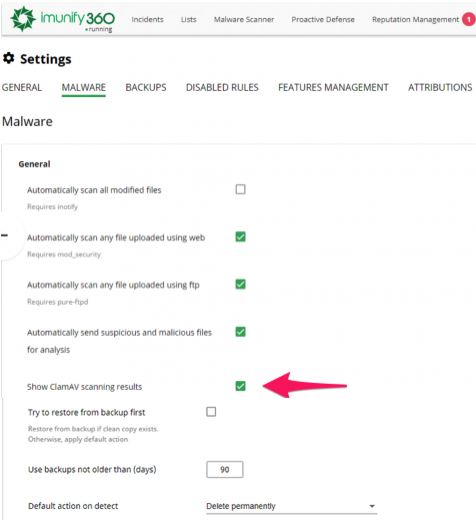
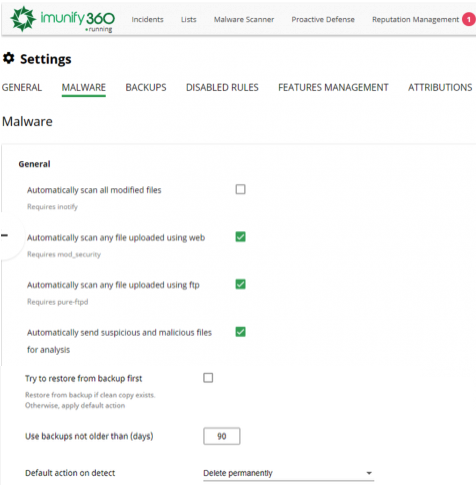
Replaced pictures.
Removed ClamAV references

diff --git a/docs/dashboard/README.md b/docs/dashboard/README.md
@@ -710,11 +710,11 @@ After <span class="notranslate">Malware Scanner</span> stops on-demand scanning 
 
 * <span class="notranslate">_Date_</span> – the date when the scanning process was started.
 * <span class="notranslate">_Path_</span> – the name of the folder that was scanned.
-* <span class="notranslate">_Total_</span> – the total number of files scanned.
-* <span class="notranslate">_Malicious_</span> – the number of malicious files found during the scanning.
-* <span class="notranslate">_Action_</span> – click icon in this column to perform particular actions.
+* <span class="notranslate">_Total files_</span> – the total number of files scanned.
+* <span class="notranslate">_Result_</span> – the result of scanning.
+* <span class="notranslate">_Actions_</span> – click icon in this column to perform particular action.
 
-![](/images/malwarescannerondemand_zoom70.png)
+![](/images/MalwareScannerResults.png)
 
 To review and manage malicious files go to the <span class="notranslate">_Files_</span> tab described below.
 
@@ -1242,7 +1242,6 @@ Read [CXS integration](/ids_integration/#cxs-integration) documentation carefull
   It requires [Pure-FTPd](https://www.pureftpd.org/project/pure-ftpd) to be used as FTP service.
   :::
 * <span class="notranslate">_Automatically send suspicious and malicious files for analysis_</span> – malicious and suspicious files will be sent to the Imunify360 Team for analysis automatically.
-* <span class="notranslate">_Show ClamAV scanning results_</span> – show ClamAV scanning results in <span class="notranslate">_Users/Files_</span> tab.
 * <span class="notranslate">_Try to restore from backup first_</span> – allows to restore file as soon as it was detected as malicious from backup if a clean copy exists. If a clean copy does not exist or it is outdated, default action will be applied. See also <span class="notranslate">[CloudLinux Backup](/dashboard/#backups)</span>.
 * <span class="notranslate">_Use backups not older than (days)_</span> – allows to set the a maximum age of a clean file.
 * <span class="notranslate">_Default action on detect_</span> – configure Malware Scanner actions when detecting malicious activity:
